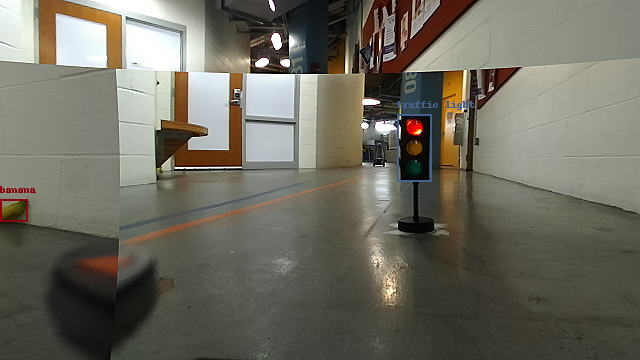
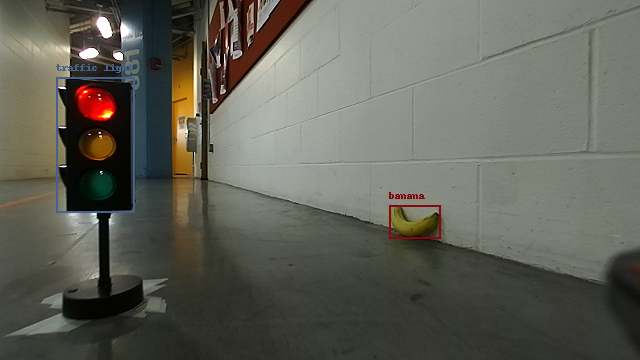
added traffic light detection 5/6

diff --git a/final_challenge2025/final_challenge2025/shrinkray_heist/state_machine.py b/final_challenge2025/final_challenge2025/shrinkray_heist/state_machine.py
@@ -4,8 +4,6 @@ import time
 import threading
 
 # from scipy.ndimage import binary_dilation
-from scipy.ndimage import distance_transform_edt
-from sensor_msgs.msg import Image
 from geometry_msgs.msg import PoseArray, PoseStamped
 from cv_bridge import CvBridge
 from final_interfaces.msg import DetectionStates
@@ -21,6 +19,9 @@ class StateMachineNode(Node):
     def __init__(self):
         super().__init__('state_machine')
         self.get_logger().info('Heist State Machine Initialized')
+        
+        self.declare_parameter('drive_topic', "default")
+        self.drive_topic: str = self.get_parameter('drive_topic').get_parameter_value().string_value
 
         self.heist_state = HeistState.IDLE
 
@@ -40,7 +41,8 @@ class StateMachineNode(Node):
 
         self.start_publish = self.create_publisher(PoseWithCovarianceStamped, "/initialpose", 10)
         self.goal_publish = self.create_publisher(PoseStamped, "/goal_pose", 10)
-        self.state_publish = self.create_publisher(String, "/state", 10)
+        self.state_publish = self.create_publisher(String, "/state", 1)
+        self.drive_publish = self.create_publisher(AckermannDriveStamped, self.drive_topic, 1)
 
         self.create_timer(0.1, self.on_timer)
 
@@ -53,8 +55,8 @@ class StateMachineNode(Node):
         self.sweep_duration = 2.0
         self.sweep_lock = threading.Lock()
 
-        self.drive_pub = self.create_publisher(AckermannDriveStamped, "/drive", 1)
         self.drive_lock = threading.Lock()
+        self.traffic_timer = time.time()
 
         self.pose_set = False
         self.curr_pos = None
@@ -85,10 +87,16 @@ class StateMachineNode(Node):
     def detection_cb(self, msg: DetectionStates):
         if msg.traffic_light_state == 'RED':
             self.heist_state = HeistState.WAIT_TRAFFIC
-        elif msg.traffic_light_state != 'RED' and self.heist_state == HeistState.WAIT_TRAFFIC:
+            self.traffic_timer = time.time()
+        elif msg.traffic_light_state != 'RED' and self.heist_state == HeistState.WAIT_TRAFFIC and (time.time() - self.traffic_timer) > 0.5:
             self.heist_state = HeistState.FOLLOW_TRAJ
-        if msg.banana_state == 'DETECTED' and self.heist_state == HeistState.SCOUT:
+        # Should prioritize stopping over parking over banana.
+        elif msg.banana_state == 'DETECTED' and self.heist_state == HeistState.SCOUT:
             self.heist_state = HeistState.PARK
+        curr_state = String()
+        curr_state.data = str(self.heist_state)
+        self.state_publish.publish(curr_state)
+        self.get_logger().info(str(self.heist_state))
         # if msg.person_state == 'DETECTED':
         #     self.get_logger().info('Human detected - stopping temporarily')
         #     # Could pause controller or use safety state
@@ -103,18 +111,14 @@ class StateMachineNode(Node):
             drive_msg.header.frame_id = 'base_link'
             drive_msg.drive.speed = speed
             drive_msg.drive.steering_angle = steering_angle
-            self.drive_pub.publish(drive_msg)
+            self.drive_publish.publish(drive_msg)
 
     def on_timer(self):
-
         curr_state = String()
-        curr_state.data = str(self.state)
+        curr_state.data = str(self.heist_state)
         self.state_publish.publish(curr_state)
-        # self.get_logger().info(str(self.state))
-        match self.state:
-
-
-
+        self.get_logger().info(str(self.heist_state))
+        match self.heist_state:
             case HeistState.IDLE:
                 # self.get_logger().info('Waiting for initial pose and goals')
                 if self.initial_pose is not None and len(self.goals) == 2:
@@ -180,7 +184,7 @@ class StateMachineNode(Node):
                     else:
                         self.get_logger().warn('Banana not found after sweeps, continuing')
                         self.sweep_count = 0
-                        self.state = HeistState.PLAN_TRAJ
+                        self.heist_state = HeistState.PLAN_TRAJ
 
             case HeistState.PARK:
                 if self.parking_done_time is None:

diff --git a/final_challenge2025/final_challenge2025/shrinkray_heist/trajectory_follower.py b/final_challenge2025/final_challenge2025/shrinkray_heist/trajectory_follower.py
@@ -12,6 +12,7 @@ import numpy as np
 import numpy.typing as npt
 from std_msgs.msg import Bool, String
 from enum import Enum, auto
+import threading
 
 from ..utils import LineTrajectory
 
@@ -65,25 +66,27 @@ class PurePursuit(Node):
         self.end_pub = self.create_publisher(Bool, "/end_trajectory", 1)
 
         self.state_sub = self.create_subscription(String, "/state", self.state_cb, 1)
+        self.state_lock = threading.Lock()
 
         self.heist_state = None
 
     def state_cb(self, msg: String):
-        self.heist_state = msg.data
+        with self.state_lock:
+            self.heist_state = msg.data
     
     def publish_drive_cmd(self, speed: float, steering_angle: float):
         """
         Publishes the drive command to the vehicle.
         """
-
-        if self.heist_state is None or self.heist_state != "HeistState.FOLLOW_TRAJ": 
-            return
-        drive_cmd: AckermannDriveStamped = AckermannDriveStamped()
-        drive_cmd.drive.speed = speed
-        drive_cmd.drive.steering_angle = steering_angle
-        drive_cmd.header.stamp = self.get_clock().now().to_msg()
-        drive_cmd.header.frame_id = "base_link"
-        self.drive_pub.publish(drive_cmd)
+        with self.state_lock:
+            if self.heist_state is None or self.heist_state != "HeistState.FOLLOW_TRAJ": 
+                return
+            drive_cmd: AckermannDriveStamped = AckermannDriveStamped()
+            drive_cmd.drive.speed = speed
+            drive_cmd.drive.steering_angle = steering_angle
+            drive_cmd.header.stamp = self.get_clock().now().to_msg()
+            drive_cmd.header.frame_id = "base_link"
+            self.drive_pub.publish(drive_cmd)
 
     def get_trajectory(
         self, closest_idx: int, 

diff --git a/final_challenge2025/final_challenge2025/safety_controller.py b/final_challenge2025/final_challenge2025/safety_controller.py
@@ -12,7 +12,7 @@ class SafetyController(Node):
     def __init__(self):
         super().__init__("safety_controller")
 
-        self.stop_thresh_base = 0.5  # meters (base stopping threshold at very low speeds)
+        self.stop_thresh_base = 0.75  # meters (base stopping threshold at very low speeds)
         self.stop_speed = 0.0  # stopping speed
         # self.min_speed = 1.0 # minimum speed for stopping - this is when we call publish stop command 
         # self.braking_speed = 0.5 # braking speed - how much to slow down gradually 
@@ -95,7 +95,6 @@ class SafetyController(Node):
 
     
 
-
     def ackermann_callback(self, msg):
         # self.get_logger().info(f"Received Drive Command: Speed={msg.drive.speed}, Steering={msg.drive.steering_angle}")
         self.current_speed = msg.drive.speed
@@ -107,7 +106,7 @@ class SafetyController(Node):
         stop_msg.drive.speed = self.hard_stop_speed
         stop_msg.drive.steering_angle = 0.0
         self.drive_pub.publish(stop_msg)
-        self.get_logger().warn("EMERGENCY STOP")
+        self.get_logger().warn("EMERGENCY STOP", throttle_duration_sec=1.0)
 
     def publish_brake_command(self):
         brake_msg = AckermannDriveStamped()
